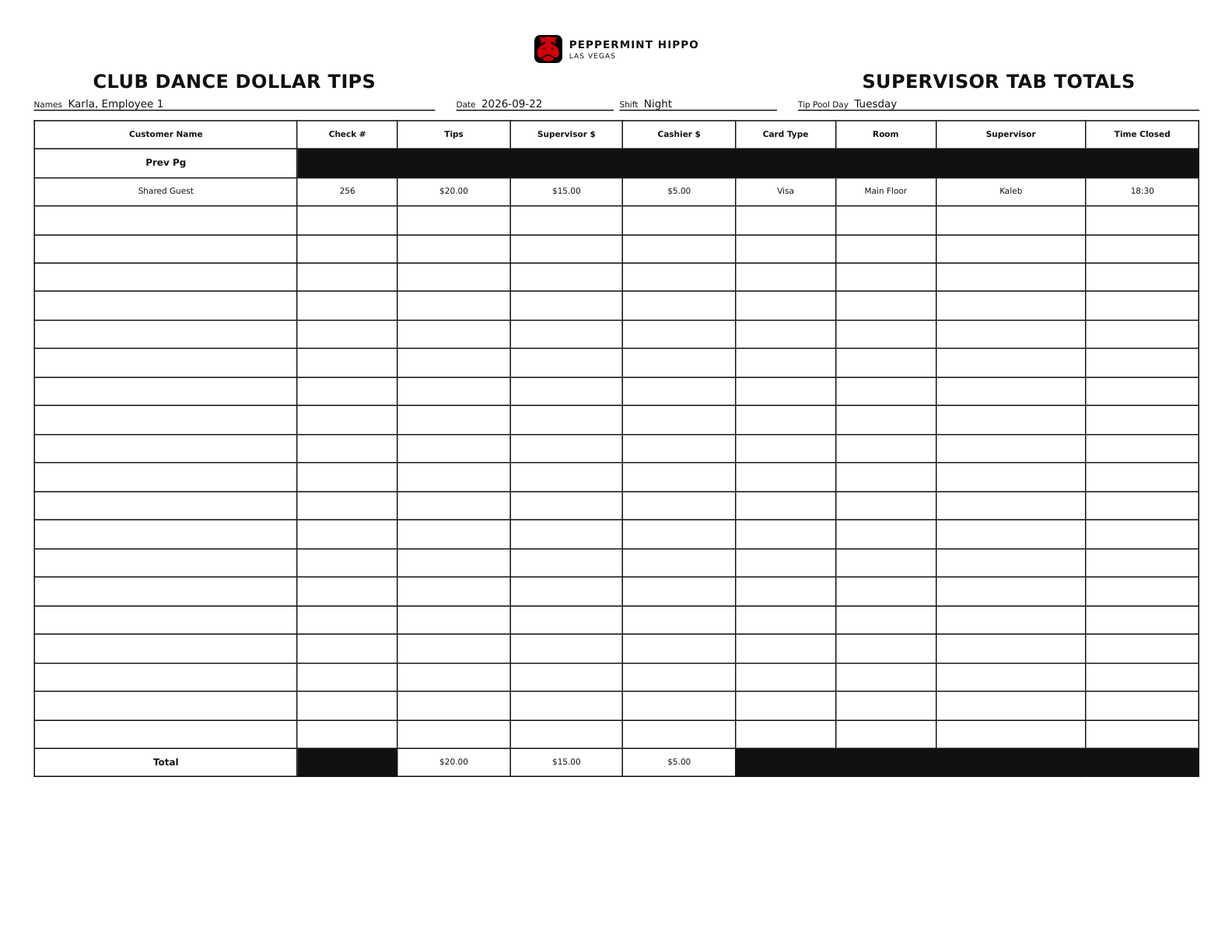
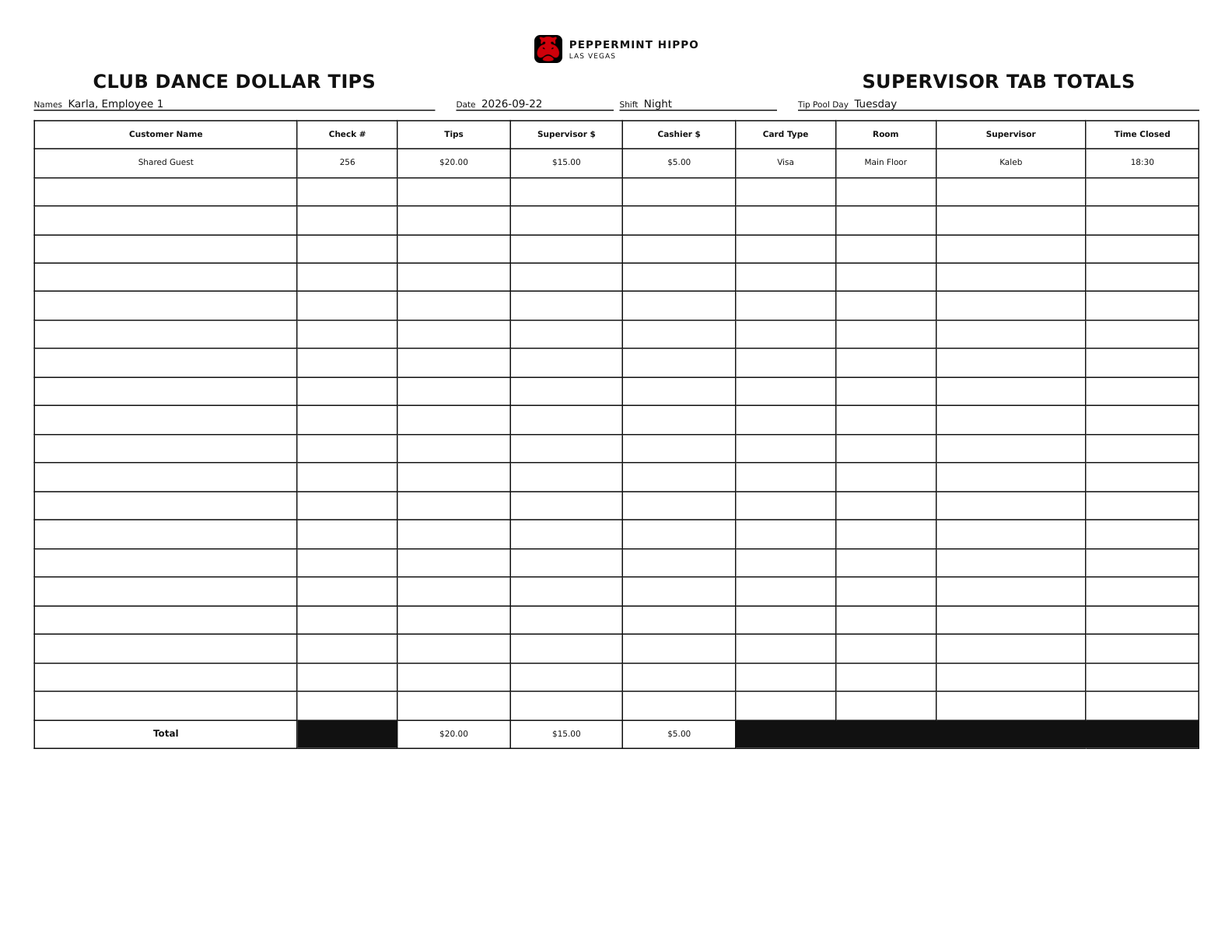
Remove obsolete Prev Pg / PRIOR PG carry-forward row and black block from all three sheets

diff --git a/static/styles.css b/static/styles.css
@@ -5,7 +5,7 @@
 @media(max-width:900px){.transaction-groups{grid-template-columns:1fr}.transaction-grid{grid-template-columns:repeat(3,minmax(0,1fr))}}
 @media(max-width:540px){.transaction-row{grid-template-columns:1fr 1fr}.transaction-row-header,.transaction-groups{grid-column:1/-1}.transaction-grid{grid-template-columns:1fr 1fr}.transaction-grid .wide-field{grid-column:span 2}.transaction-group{padding:10px}.transaction-totals{grid-template-columns:1fr 1fr}.transaction-totals>div:first-child{grid-column:1/-1}}
 .completed-section{margin-top:18px}.completed-shift-list{display:grid;gap:10px}.completed-shift-card{padding:15px;display:grid;grid-template-columns:minmax(0,1.4fr) minmax(180px,.7fr) auto;align-items:center;gap:14px;border:1px solid var(--line);border-radius:12px;background:#fbfcfb}.completed-shift-card small{color:var(--blue);font-size:10px;font-weight:900;text-transform:uppercase;letter-spacing:.05em}.completed-shift-card h3{margin:3px 0;font-family:Georgia,serif;font-size:20px}.completed-shift-card p{margin:0;color:var(--muted);font-size:11px}.completed-shift-totals{display:grid;gap:5px}.completed-shift-totals span{display:flex;justify-content:space-between;gap:10px;color:var(--muted);font-size:10px}.completed-shift-totals strong{color:var(--ink);font-size:13px}.completed-shift-actions{display:flex;gap:7px}.completed-empty{border:1px dashed var(--line);border-radius:11px}.saved-source-banner,.new-shift-zone{margin-bottom:14px;padding:14px 16px;display:flex;align-items:center;justify-content:space-between;gap:14px;border:1px solid #a9d8cf;border-radius:12px;background:#eaf8f4}.saved-source-banner p,.new-shift-zone p{margin:3px 0;color:var(--muted);font-size:11px}.completed-confirmation{margin:16px 0;padding:14px;border-radius:11px;background:#e9f8f1;color:#225a49}.completed-confirmation p{margin:4px 0 10px}.new-shift-zone{margin:18px 0 0;border-color:var(--line);background:#f5f7f7}.inline-link-button{margin-left:8px;padding:6px 8px;border:1px solid currentColor;border-radius:7px;background:transparent;color:inherit;font-weight:800}.secondary-button:disabled{opacity:.45;cursor:not-allowed}.status-dot.complete{background:#176b87;box-shadow:0 0 0 4px rgba(23,107,135,.14)}
-.paper-sheet{width:100%;margin:auto;padding:clamp(10px,2vw,24px);border:1px solid #aeb4b8;background:#fff;color:#111;font-family:Arial,sans-serif;box-shadow:0 6px 20px rgba(0,0,0,.08);font-variant-numeric:tabular-nums}.paper-brand{height:26px;margin:0 0 5px;display:flex;align-items:center;justify-content:center;gap:6px;color:#111}.paper-brand img{width:24px;height:24px;display:block;border-radius:5px;background:#000}.paper-brand span{display:grid;gap:0;line-height:1}.paper-brand strong{font-size:9px;letter-spacing:.08em}.paper-brand small{margin-top:2px;font-size:6px;letter-spacing:.12em}.paper-sheet h2{margin:0;text-align:center;font-family:Arial,sans-serif;font-size:clamp(14px,2vw,22px);letter-spacing:.015em}.paper-sheet p{margin:2px 0;text-align:center;color:#111}.paper-landscape{aspect-ratio:11/8.5}.paper-portrait{aspect-ratio:8.5/11}.paper-field{min-width:0;display:flex;align-items:flex-end;gap:5px;border-bottom:1px solid #111}.paper-field small{flex:none;color:#111;font-size:9px;font-weight:400}.paper-field strong{min-width:30px;flex:1;overflow:hidden;font-size:11px;font-weight:500;white-space:nowrap;text-overflow:ellipsis}.paper-table{width:100%;border-collapse:collapse;table-layout:fixed}.paper-table th,.paper-table td{height:22px;padding:2px 3px;border:1px solid #111;color:#111;font-size:8px;font-weight:400;line-height:1.05;overflow:hidden;text-align:center;vertical-align:middle}.paper-table th{font-weight:600}.paper-table .paper-prev-row th:not(:first-child),.blocked-cell,.cage-paper-table .paper-total-row td:not(:last-child){background:#111!important;color:#fff!important;-webkit-print-color-adjust:exact;print-color-adjust:exact}.paper-prev-row th:first-child,.paper-total-row th:first-child{font-size:8px;font-weight:600;line-height:1.05;text-align:center;vertical-align:middle;writing-mode:horizontal-tb;transform:none;white-space:nowrap}.choice-print{text-align:center!important;font-weight:900!important}.club-form-heading{margin-bottom:7px;display:grid;grid-template-columns:1fr .8fr 1fr;gap:18px;align-items:end}.club-form-heading>div{display:grid;gap:5px}.club-form-heading>div:nth-child(2){grid-template-columns:1fr 1fr}.club-paper-table th:nth-child(1){width:21%}.club-paper-table th:nth-child(2){width:8%}.club-paper-table th:nth-child(3),.club-paper-table th:nth-child(4),.club-paper-table th:nth-child(5){width:9%}.club-paper-table th:nth-child(6){width:8%}.club-paper-table th:nth-child(7){width:8%}.club-paper-table th:nth-child(8){width:12%}.club-paper-table th:nth-child(9){width:9%}.cage-form-heading{margin-bottom:7px}.cage-form-heading p{font-size:9px}.paper-header-grid{margin-top:8px;display:grid;grid-template-columns:1.2fr .65fr .65fr;gap:6px 18px}.paper-header-grid .paper-field:nth-child(1){grid-column:1/3;grid-row:1}.paper-header-grid .paper-field:nth-child(2){grid-column:3;grid-row:1}.paper-header-grid .paper-field:nth-child(3){grid-column:1;grid-row:2}.paper-header-grid .paper-field:nth-child(4){grid-column:2;grid-row:2}.paper-header-grid .paper-field:nth-child(5){grid-column:3;grid-row:2}.cage-paper-table th:nth-child(1){width:28%}.cage-paper-table th:nth-child(2){width:10%}.cage-paper-table th:nth-child(3){width:11%}.cage-paper-table th:nth-child(4){width:11%}.cage-paper-table th:nth-child(5){width:13%}.cage-paper-table th:nth-child(6),.cage-paper-table th:nth-child(7){width:6%}.cage-paper-table th:nth-child(8){width:15%}.chip-form-meta{display:grid;grid-template-columns:.7fr .85fr 1.35fr 1.2fr;gap:13px}.shift-bands{margin:9px 0 5px;display:grid;grid-template-columns:repeat(4,1fr);text-align:center;font-size:9px}.selected-shift{font-size:9px}.chip-totals-paper-table th,.chip-totals-paper-table td{text-align:center}.chip-totals-paper-table th:nth-child(1){width:7%}.chip-totals-paper-table th:nth-child(2){width:5%}.chip-totals-paper-table th:nth-child(3){width:10%}.chip-totals-paper-table th:nth-child(4){width:13%}.chip-totals-paper-table th:nth-child(5){width:13%}.chip-totals-paper-table th:nth-child(6){width:11%}.chip-totals-paper-table th:nth-child(7){width:12%}.chip-totals-paper-table th:nth-child(8){width:13%}.chip-totals-paper-table th:nth-child(9){width:9%}.chip-totals-paper-table th:nth-child(10){width:14%}
+.paper-sheet{width:100%;margin:auto;padding:clamp(10px,2vw,24px);border:1px solid #aeb4b8;background:#fff;color:#111;font-family:Arial,sans-serif;box-shadow:0 6px 20px rgba(0,0,0,.08);font-variant-numeric:tabular-nums}.paper-brand{height:26px;margin:0 0 5px;display:flex;align-items:center;justify-content:center;gap:6px;color:#111}.paper-brand img{width:24px;height:24px;display:block;border-radius:5px;background:#000}.paper-brand span{display:grid;gap:0;line-height:1}.paper-brand strong{font-size:9px;letter-spacing:.08em}.paper-brand small{margin-top:2px;font-size:6px;letter-spacing:.12em}.paper-sheet h2{margin:0;text-align:center;font-family:Arial,sans-serif;font-size:clamp(14px,2vw,22px);letter-spacing:.015em}.paper-sheet p{margin:2px 0;text-align:center;color:#111}.paper-landscape{aspect-ratio:11/8.5}.paper-portrait{aspect-ratio:8.5/11}.paper-field{min-width:0;display:flex;align-items:flex-end;gap:5px;border-bottom:1px solid #111}.paper-field small{flex:none;color:#111;font-size:9px;font-weight:400}.paper-field strong{min-width:30px;flex:1;overflow:hidden;font-size:11px;font-weight:500;white-space:nowrap;text-overflow:ellipsis}.paper-table{width:100%;border-collapse:collapse;table-layout:fixed}.paper-table th,.paper-table td{height:22px;padding:2px 3px;border:1px solid #111;color:#111;font-size:8px;font-weight:400;line-height:1.05;overflow:hidden;text-align:center;vertical-align:middle}.paper-table th{font-weight:600}.paper-table .blocked-cell,.cage-paper-table .paper-total-row td:not(:last-child){background:#111!important;color:#fff!important;-webkit-print-color-adjust:exact;print-color-adjust:exact}.paper-total-row th:first-child{font-size:8px;font-weight:600;line-height:1.05;text-align:center;vertical-align:middle;writing-mode:horizontal-tb;transform:none;white-space:nowrap}.choice-print{text-align:center!important;font-weight:900!important}.club-form-heading{margin-bottom:7px;display:grid;grid-template-columns:1fr .8fr 1fr;gap:18px;align-items:end}.club-form-heading>div{display:grid;gap:5px}.club-form-heading>div:nth-child(2){grid-template-columns:1fr 1fr}.club-paper-table th:nth-child(1){width:21%}.club-paper-table th:nth-child(2){width:8%}.club-paper-table th:nth-child(3),.club-paper-table th:nth-child(4),.club-paper-table th:nth-child(5){width:9%}.club-paper-table th:nth-child(6){width:8%}.club-paper-table th:nth-child(7){width:8%}.club-paper-table th:nth-child(8){width:12%}.club-paper-table th:nth-child(9){width:9%}.cage-form-heading{margin-bottom:7px}.cage-form-heading p{font-size:9px}.paper-header-grid{margin-top:8px;display:grid;grid-template-columns:1.2fr .65fr .65fr;gap:6px 18px}.paper-header-grid .paper-field:nth-child(1){grid-column:1/3;grid-row:1}.paper-header-grid .paper-field:nth-child(2){grid-column:3;grid-row:1}.paper-header-grid .paper-field:nth-child(3){grid-column:1;grid-row:2}.paper-header-grid .paper-field:nth-child(4){grid-column:2;grid-row:2}.paper-header-grid .paper-field:nth-child(5){grid-column:3;grid-row:2}.cage-paper-table th:nth-child(1){width:28%}.cage-paper-table th:nth-child(2){width:10%}.cage-paper-table th:nth-child(3){width:11%}.cage-paper-table th:nth-child(4){width:11%}.cage-paper-table th:nth-child(5){width:13%}.cage-paper-table th:nth-child(6),.cage-paper-table th:nth-child(7){width:6%}.cage-paper-table th:nth-child(8){width:15%}.chip-form-meta{display:grid;grid-template-columns:.7fr .85fr 1.35fr 1.2fr;gap:13px}.shift-bands{margin:9px 0 5px;display:grid;grid-template-columns:repeat(4,1fr);text-align:center;font-size:9px}.selected-shift{font-size:9px}.chip-totals-paper-table th,.chip-totals-paper-table td{text-align:center}.chip-totals-paper-table th:nth-child(1){width:7%}.chip-totals-paper-table th:nth-child(2){width:5%}.chip-totals-paper-table th:nth-child(3){width:10%}.chip-totals-paper-table th:nth-child(4){width:13%}.chip-totals-paper-table th:nth-child(5){width:13%}.chip-totals-paper-table th:nth-child(6){width:11%}.chip-totals-paper-table th:nth-child(7){width:12%}.chip-totals-paper-table th:nth-child(8){width:13%}.chip-totals-paper-table th:nth-child(9){width:9%}.chip-totals-paper-table th:nth-child(10){width:14%}
 .chip-totals-paper-table thead th{height:30px;line-height:1.05}.chips-total-label{text-align:center;font-size:9px}.checker-box{margin-top:9px;padding:9px;display:grid;grid-template-columns:1.2fr .8fr auto auto .8fr auto .8fr auto .8fr;align-items:center;gap:6px;border:1px solid #111;font-size:8px}.checker-box span{min-height:21px;border:1px solid #111}.checker-box em{align-self:start}
 @media(max-width:760px){.completed-shift-card{grid-template-columns:1fr}.completed-shift-actions{display:grid;grid-template-columns:1fr 1fr}.saved-source-banner,.new-shift-zone{align-items:flex-start;flex-direction:column}.paper-sheet{padding:8px}.paper-table th,.paper-table td{height:18px;padding:1px;font-size:6px}.paper-field small{font-size:6px}.paper-field strong{font-size:7px}.club-form-heading{gap:7px}.chip-form-meta{gap:5px}.checker-box{padding:4px;gap:3px}}
 @page portrait-sheet{size:letter portrait;margin:.3in}@page landscape-sheet{size:letter landscape;margin:.3in}@media print{*{-webkit-print-color-adjust:exact!important;print-color-adjust:exact!important}.app-header,main,.toast,dialog{display:none!important}body,html{margin:0!important;background:#fff!important}.print-report{display:block!important;color:#000;font-family:Arial,sans-serif}.print-sheet{margin:0!important;padding:0!important;break-after:page;page-break-after:always}.print-sheet:last-child{break-after:auto;page-break-after:auto}.print-sheet.chip-tips,.print-sheet.cage{page:landscape-sheet}.print-sheet.chip-totals{page:portrait-sheet}.paper-sheet{width:100%!important;height:auto!important;min-height:0!important;margin:0!important;padding:0!important;border:0!important;box-shadow:none!important;aspect-ratio:auto!important}.paper-sheet h2{font-size:16px}.paper-table th,.paper-table td{height:.245in;padding:1px 2px;font-size:7px}.club-paper-table th,.club-paper-table td{height:.255in}.cage-paper-table th,.cage-paper-table td{height:.19in}.chip-totals-paper-table th,.chip-totals-paper-table td{height:.252in}

diff --git a/static/app.js b/static/app.js
@@ -223,19 +223,19 @@ function paperMoney(cents){return cents?money(cents):"";}
 function clubTipsForm(source){
   const tips=Logic.printableSharedTipRows(source.tipRows,source.chipRows),totals=Logic.calculateSharedTipTotals(source.tipRows,source.chipRows);
   const rows=paperRows(20,tips,(row)=>`<tr><td>${esc(row?.customer_name||"")}</td><td>${esc(row?.check_number||"")}</td><td>${paperMoney(row?.tip_cents)}</td><td>${paperMoney(row?.supervisor_cents)}</td><td>${paperMoney(row?.cashier_cents)}</td><td>${esc(row?.card_type||"")}</td><td>${esc(row?.location||"")}</td><td>${esc(row?.host||"")}</td><td>${esc(row?.time_closed||"")}</td></tr>`);
-  return `<div class="paper-sheet paper-landscape club-tips-form">${paperBrand()}<div class="club-form-heading"><div><h2>CLUB DANCE DOLLAR TIPS</h2>${paperField("Names",(source.workers||[]).join(", "))}</div><div>${paperField("Date",source.work_date)}${paperField("Shift",source.shift)}</div><div><h2>SUPERVISOR TAB TOTALS</h2>${paperField("Tip Pool Day",source.tip_pool_day)}</div></div><table class="paper-table club-paper-table"><thead><tr><th>Customer Name</th><th>Check #</th><th>Tips</th><th>Supervisor $</th><th>Cashier $</th><th>Card Type</th><th>Room</th><th>Supervisor</th><th>Time Closed</th></tr><tr class="paper-prev-row"><th>Prev Pg</th><th colspan="8"></th></tr></thead><tbody>${rows}</tbody><tfoot><tr class="paper-total-row"><th>Total</th><td class="blocked-cell"></td><td>${money(totals.tip)}</td><td>${money(totals.supervisor)}</td><td>${money(totals.cashier)}</td><td class="blocked-cell" colspan="4"></td></tr></tfoot></table></div>`;
+  return `<div class="paper-sheet paper-landscape club-tips-form">${paperBrand()}<div class="club-form-heading"><div><h2>CLUB DANCE DOLLAR TIPS</h2>${paperField("Names",(source.workers||[]).join(", "))}</div><div>${paperField("Date",source.work_date)}${paperField("Shift",source.shift)}</div><div><h2>SUPERVISOR TAB TOTALS</h2>${paperField("Tip Pool Day",source.tip_pool_day)}</div></div><table class="paper-table club-paper-table"><thead><tr><th>Customer Name</th><th>Check #</th><th>Tips</th><th>Supervisor $</th><th>Cashier $</th><th>Card Type</th><th>Room</th><th>Supervisor</th><th>Time Closed</th></tr></thead><tbody>${rows}</tbody><tfoot><tr class="paper-total-row"><th>Total</th><td class="blocked-cell"></td><td>${money(totals.tip)}</td><td>${money(totals.supervisor)}</td><td>${money(totals.cashier)}</td><td class="blocked-cell" colspan="4"></td></tr></tfoot></table></div>`;
 }
 function cageSmartTabForm(source){
   const tips=Logic.printableTipRows(source.tipRows),totals=Logic.calculateRows(source.tipRows),drawers=[...new Set(tips.map(row=>row.drawer_number).filter(Boolean))].join(", ");
   const rows=paperRows(30,tips,(row)=>`<tr><td>${esc(row?.customer_name||"")}</td><td>${esc(row?.drawer_number||"")}</td><td>${esc(row?.check_number||"")}</td><td>${esc(row?.card_type||"")}</td><td>${esc(row?.time_closed||"")}</td><td class="choice-print">${row?.entry_type==="C"?"✓":""}</td><td class="choice-print">${row?.entry_type==="DD"?"✓":""}</td><td>${paperMoney(row?.tip_cents)}</td></tr>`);
-  return `<div class="paper-sheet paper-landscape cage-smarttab-form">${paperBrand()}<header class="cage-form-heading"><h2>CAGE SMARTTAB TIP TOTALS</h2><p>(Cover and Dance Dollar Tips)</p><div class="paper-header-grid">${paperField("Names",(source.workers||[]).join(", "))}${paperField("Tip Pool Day",source.tip_pool_day)}${paperField("Drawer #'s",drawers)}${paperField("Shift",source.shift)}${paperField("Date",source.work_date)}</div></header><table class="paper-table cage-paper-table"><thead><tr><th>Customer Name</th><th>Drawer #</th><th>Check #</th><th>Card Type</th><th>Time Closed</th><th colspan="2">Cover / DD</th><th>Tip $</th></tr><tr class="paper-prev-row"><th>Prev Pg</th><th colspan="6"></th><th>$</th></tr></thead><tbody>${rows}</tbody><tfoot><tr class="paper-total-row"><th>Total</th><td colspan="6"></td><td>${money(totals.tip)}</td></tr></tfoot></table></div>`;
+  return `<div class="paper-sheet paper-landscape cage-smarttab-form">${paperBrand()}<header class="cage-form-heading"><h2>CAGE SMARTTAB TIP TOTALS</h2><p>(Cover and Dance Dollar Tips)</p><div class="paper-header-grid">${paperField("Names",(source.workers||[]).join(", "))}${paperField("Tip Pool Day",source.tip_pool_day)}${paperField("Drawer #'s",drawers)}${paperField("Shift",source.shift)}${paperField("Date",source.work_date)}</div></header><table class="paper-table cage-paper-table"><thead><tr><th>Customer Name</th><th>Drawer #</th><th>Check #</th><th>Card Type</th><th>Time Closed</th><th colspan="2">Cover / DD</th><th>Tip $</th></tr></thead><tbody>${rows}</tbody><tfoot><tr class="paper-total-row"><th>Total</th><td colspan="6"></td><td>${money(totals.tip)}</td></tr></tfoot></table></div>`;
 }
 function chipTotalsForm(source){
   const chips=Logic.printableChipRows(source.chipRows),totals=Logic.calculateChipTotals(source.chipRows);
   const rows=paperRows(25,chips,(row,index)=>`<tr><td>${esc(row?.transfer_to||"")}</td><td>${index+1}</td><td>${esc(row?.tab_number||"")}</td><td>${paperMoney(row?.chipInvoice)}</td><td class="blocked-cell"></td><td></td><td>${paperMoney(row?.grandInvoice)}</td><td>${paperMoney(row?.checkWithoutTip)}</td><td>${paperMoney(row?.tipSmartTab)}</td><td>${paperMoney(row?.totalWithTip)}</td></tr>`);
   const expectedHeader='<span>Xfer to</span><span>#</span><span>Tab #</span><span>Chip Total Invoice</span><span>Chip Total + Chip Fee</span><span>Room Fee Invoice</span><span>Grand Total Invoice</span><span>Check Total Without Tip</span><span>Tip SmartTab</span><span>Total With Tip SmartTab</span>';
   void expectedHeader;
-  return `<div class="paper-sheet paper-portrait chip-totals-form">${paperBrand()}<div class="chip-form-meta">${paperField("DATE",source.work_date)}${paperField("TIP DAY(S)",source.tip_pool_day)}${paperField("BANK START / END TIME",`${source.bank_start_time||""} / ${source.bank_end_time||""}`)}${paperField("CASHIER(S)",(source.workers||[]).join(", "))}</div><div class="shift-bands"><span>1PM-3PM</span><span>3PM-END</span><span>START-7AM</span><span>7AM-1PM</span></div><h2>CHIP TOTALS SHEET</h2><p class="selected-shift">Shift: ${esc(source.shift||"")}</p><table class="paper-table chip-totals-paper-table"><thead><tr><th># xfer<br>to</th><th></th><th>TAB #</th><th>Chip Total<br>Invoice</th><th>Chip total<br>+ Chip fee</th><th>Room Fee<br>Invoice</th><th>Grand<br>Total<br>Invoice</th><th>CHECK TOTAL<br>(WITHOUT TIP)</th><th>Tip<br>SmartTab</th><th>Total With Tip<br>SmartTab</th></tr></thead><tbody>${rows}</tbody><tfoot><tr><th colspan="3">PRIOR PG</th><td></td><td class="blocked-cell"></td><td></td><td></td><td></td><td></td><td></td></tr><tr class="paper-total-row"><th colspan="3">TOTAL</th><td>${money(totals.chipInvoice)}</td><td class="blocked-cell"></td><td></td><td>${money(totals.grandInvoice)}</td><td>${money(totals.checkWithoutTip)}</td><td>${money(totals.tipSmartTab)}</td><td>${money(totals.totalWithTip)}</td></tr></tfoot></table><div class="chips-total-label">Total<br>(Chips)</div><div class="checker-box"><em>checker</em><span>${money(totals.chipInvoice)}</span><b>×1.2</b><b>+</b><span></span><b>+</b><span>${money(totals.tipSmartTab)}</span><b>=</b><span>${money(totals.totalWithTip)}</span></div></div>`;
+  return `<div class="paper-sheet paper-portrait chip-totals-form">${paperBrand()}<div class="chip-form-meta">${paperField("DATE",source.work_date)}${paperField("TIP DAY(S)",source.tip_pool_day)}${paperField("BANK START / END TIME",`${source.bank_start_time||""} / ${source.bank_end_time||""}`)}${paperField("CASHIER(S)",(source.workers||[]).join(", "))}</div><div class="shift-bands"><span>1PM-3PM</span><span>3PM-END</span><span>START-7AM</span><span>7AM-1PM</span></div><h2>CHIP TOTALS SHEET</h2><p class="selected-shift">Shift: ${esc(source.shift||"")}</p><table class="paper-table chip-totals-paper-table"><thead><tr><th># xfer<br>to</th><th></th><th>TAB #</th><th>Chip Total<br>Invoice</th><th>Chip total<br>+ Chip fee</th><th>Room Fee<br>Invoice</th><th>Grand<br>Total<br>Invoice</th><th>CHECK TOTAL<br>(WITHOUT TIP)</th><th>Tip<br>SmartTab</th><th>Total With Tip<br>SmartTab</th></tr></thead><tbody>${rows}</tbody><tfoot><tr class="paper-total-row"><th colspan="3">TOTAL</th><td>${money(totals.chipInvoice)}</td><td class="blocked-cell"></td><td></td><td>${money(totals.grandInvoice)}</td><td>${money(totals.checkWithoutTip)}</td><td>${money(totals.tipSmartTab)}</td><td>${money(totals.totalWithTip)}</td></tr></tfoot></table><div class="chips-total-label">Total<br>(Chips)</div><div class="checker-box"><em>checker</em><span>${money(totals.chipInvoice)}</span><b>×1.2</b><b>+</b><span></span><b>+</b><span>${money(totals.tipSmartTab)}</span><b>=</b><span>${money(totals.totalWithTip)}</span></div></div>`;
 }
 function generatedSheetHtml(type,print=false,source=sheetSource()){
   void print;

diff --git a/tests/test_app.py b/tests/test_app.py
@@ -192,8 +192,11 @@ class ChipTipsMasterTests(unittest.TestCase):
         css = (ROOT / "static" / "styles.css").read_text()
         for title in ["CLUB DANCE DOLLAR TIPS", "SUPERVISOR TAB TOTALS", "CAGE SMARTTAB TIP TOTALS", "CHIP TOTALS SHEET"]:
             self.assertIn(title, app)
-        for class_name in ["club-tips-form", "cage-smarttab-form", "chip-totals-form", "paper-field", "paper-total-row", "paper-prev-row"]:
+        for class_name in ["club-tips-form", "cage-smarttab-form", "chip-totals-form", "paper-field", "paper-total-row"]:
             self.assertIn(class_name, app)
+        self.assertNotIn("paper-prev-row", app)
+        self.assertNotIn("Prev Pg", app)
+        self.assertNotIn("PRIOR PG", app)
         self.assertIn("paperRows(25", app)
         self.assertIn("paperRows(30", app)
         self.assertIn("@page portrait-sheet", css)
@@ -260,7 +263,7 @@ class ChipTipsMasterTests(unittest.TestCase):
         # printer must always receive upright, centred text.
         self.assertNotIn("writing-mode:vertical", css)
         self.assertNotIn("rotate(180deg)", css)
-        match = re.search(r"\.paper-prev-row th:first-child,\.paper-total-row th:first-child\{([^}]*)\}", css)
+        match = re.search(r"\.paper-total-row th:first-child\{([^}]*)\}", css)
         self.assertIsNotNone(match, "the label cell rule is missing from the print stylesheet")
         declarations = match.group(1)
         for declaration in ["writing-mode:horizontal-tb", "text-align:center", "vertical-align:middle", "white-space:nowrap"]:

diff --git a/tests/verify_pdf.py b/tests/verify_pdf.py
@@ -30,6 +30,10 @@ for stale in ["124.80", "364.80"]:
 assert '"tipRows"' not in text
 assert text.count("PEPPERMINT HIPPO") == 3
 assert text.count("LAS VEGAS") == 3
+# The "Prev Pg" / "PRIOR PG" carry-forward row is obsolete now that a multi-page
+# shift prints every page in one pass, so it must be fully gone from every sheet.
+assert "Prev Pg" not in text, "the obsolete carry-forward row is still printed"
+assert "PRIOR PG" not in text, "the obsolete carry-forward row is still printed"
 
 pdf = fitz.open(PDF)
 sizes = []
@@ -46,9 +50,10 @@ assert sizes[2][0] < sizes[2][1], sizes
 
 # Printed labels must be upright. Walk every text line in the PDF text layer and
 # refuse any line whose writing direction is not horizontal, which is exactly how
-# the sideways "Prev Pg" / "Total" / "PRIOR PG" labels showed up before.
+# the sideways "Total" label showed up before. The "Prev Pg" / "PRIOR PG"
+# carry-forward row was removed entirely, so it must no longer appear at all.
 sideways = []
-labels = {"Prev Pg": 0, "Total": 0, "PRIOR PG": 0, "TOTAL": 0}
+labels = {"Total": 0, "TOTAL": 0}
 for index, page in enumerate(pdf):
     for block in page.get_text("dict")["blocks"]:
         for line in block.get("lines", []):

diff --git a/tests/test_print_geometry.py b/tests/test_print_geometry.py
@@ -34,8 +34,10 @@ CANDIDATES = [
 CHROMIUM = next((path for path in CANDIDATES if path.exists()), None)
 
 # Labels the operator circled as printing sideways. Each must be upright and
-# centred on both axes inside its cell.
-LABELS = ["Prev Pg", "Total", "PRIOR PG", "TOTAL"]
+# centred on both axes inside its cell. The "Prev Pg" / "PRIOR PG" carry-forward
+# row was removed (the app now prints every page of a multi-page shift at once,
+# so there is nothing to carry forward), so only the Total labels remain.
+LABELS = ["Total", "TOTAL"]
 
 # Sub pixel slack for "centred". Horizontal: a 22 pixel tall, 40 pixel wide cell
 # with 1.5 pixels of horizontal imbalance is visibly off centre, so this bound is

diff --git a/README.md b/README.md
@@ -34,11 +34,11 @@ Completing a shift saves an independent snapshot in Completed Shifts on the tabl
 
 Starting a new shift is a separate action that becomes available only after the current shift has been archived. The new shift resets the entry screen while every completed shift remains available from Home.
 
-The former emergency JSON download is not part of the shift workflow. Save three sheets as PDF opens the device print screen with exactly three populated pages: the landscape Club Dance Dollar Tips and Supervisor Tab Totals form, the landscape Cage SmartTab Tip Totals form, and the portrait Chip Totals Sheet form. These layouts reproduce the uploaded paper forms, including fixed blank rows, black previous page and blocked regions, totals, the chip checker equation, and a restrained Peppermint Hippo identifier on each sheet.
+The former emergency JSON download is not part of the shift workflow. Save three sheets as PDF opens the device print screen with exactly three populated pages: the landscape Club Dance Dollar Tips and Supervisor Tab Totals form, the landscape Cage SmartTab Tip Totals form, and the portrait Chip Totals Sheet form. These layouts reproduce the uploaded paper forms, including fixed blank rows, blocked regions, totals, the chip checker equation, and a restrained Peppermint Hippo identifier on each sheet. Earlier versions carried a "Prev Pg" / "PRIOR PG" row meant to hand a running total from one printed page to the next by hand. That row is gone: a multi-page shift now prints every page of a sheet in the same pass, so there is nothing left to carry forward.
 
 ## Printed sheet text alignment
 
-Every label inside a sheet box prints upright and centred in its box, not rotated and not left or top aligned. The previous page and total labels, the header row of every table, and the checker line all follow that rule. Values sit in the middle of their column on all three sheets, so a money figure, a check number, a card type, or a customer name never presses against the left or right edge of its box. The print stylesheet forces horizontal writing direction for the previous page and total cells, and the Chip Totals header row is taller than its data rows so the three line Grand Total Invoice header stays inside its own box instead of being cut off.
+Every label inside a sheet box prints upright and centred in its box, not rotated and not left or top aligned. The total labels, the header row of every table, and the checker line all follow that rule. Values sit in the middle of their column on all three sheets, so a money figure, a check number, a card type, or a customer name never presses against the left or right edge of its box. The print stylesheet forces horizontal writing direction for the total row's label cell, and the Chip Totals header row is taller than its data rows so the three line Grand Total Invoice header stays inside its own box instead of being cut off.
 
 ## App icon
 
